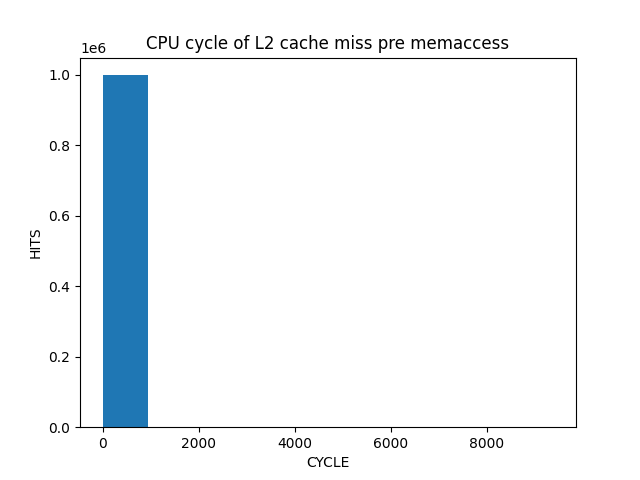
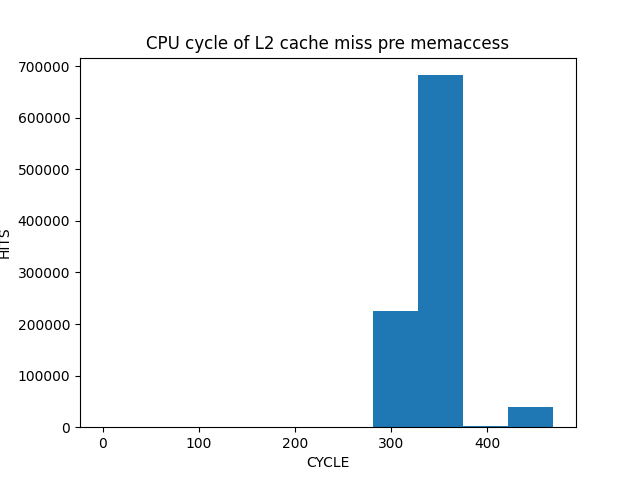
add output of result

diff --git a/arm/record_mem_access_time/a3.py b/arm/record_mem_access_time/a3.py
@@ -1,0 +1,26 @@
+#!/usr/bin/python
+import pandas as pd
+import matplotlib.pyplot as plt
+import sys
+
+log = sys.argv[1]
+title = sys.argv[2]
+fig = sys.argv[3]
+
+df = pd.read_csv(log)
+
+print('\nraw data:')
+print(df.describe())
+
+print('\nnew data:')
+new = df[df<df.quantile(0.95)]
+print(new.describe())
+
+print('\ndraw hist...')
+plt.hist(new)
+plt.xlabel('CYCLE')
+plt.ylabel('HITS')
+plt.title('CPU cycle of %s pre memaccess'%title)
+# plt.show()
+plt.savefig(fig)
+

diff --git a/x86/record_mem_access_time/LLC.c b/x86/record_mem_access_time/LLC.c
@@ -28,7 +28,7 @@ int main(){
         size_t diff = end - start;
         // printf("%lu\n",diff );
         if(diff < MAX_CYCLE){
-                rpt[i] = diff;
+            rpt[i] = diff;
         }
     }
     for (int i = 0; i < repeat; ++i) {
